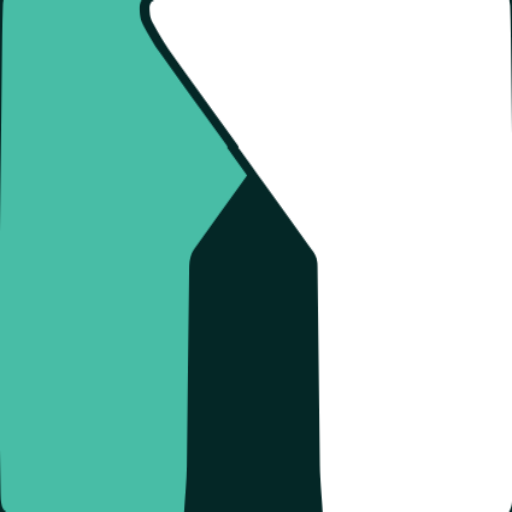
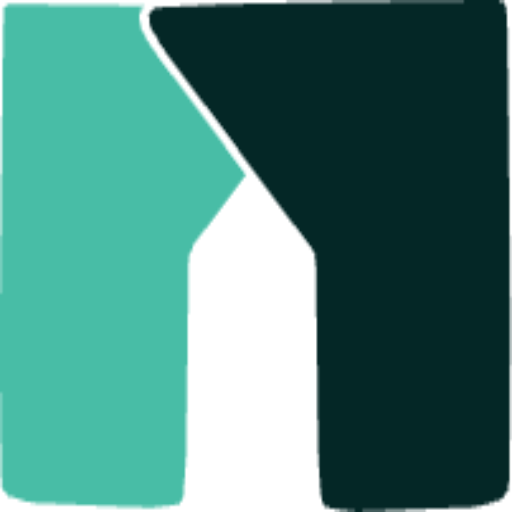
commit latest changes

diff --git a/src/app/layout.tsx b/src/app/layout.tsx
@@ -13,7 +13,7 @@ export const metadata: Metadata = {
   title: "Marlayer",
   description: "",
   icons: {
-    icon: '/favicon-v2.ico', // Path relative to the public directory
+    icon: '/favicon-new.ico', // Path relative to the public directory
     apple: '/apple-touch-icon.png', // For Apple devices
     shortcut: '/favicon-32x32.png',
     other: [
